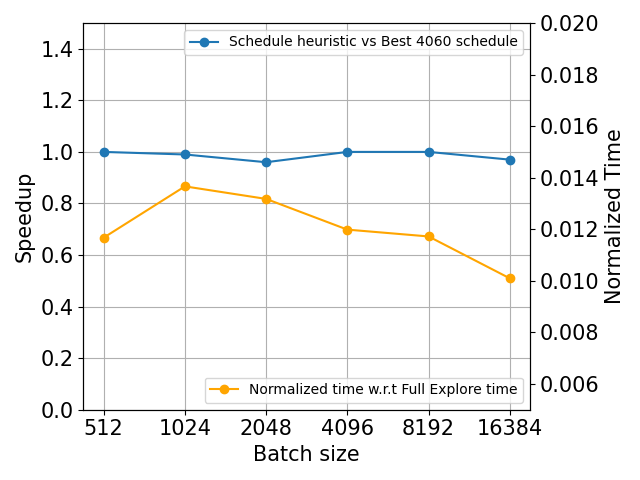
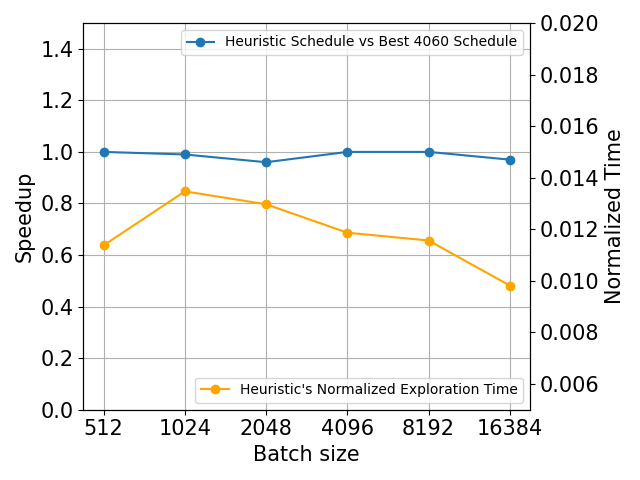
Update graph legends

diff --git a/results/python/analyze_gpu_speedups_results.py b/results/python/analyze_gpu_speedups_results.py
@@ -202,14 +202,14 @@ def plot_double_y_axis_line_graph(df_4060, full_exp_df, gpu_name):
         fe_time = filtered_df['FullExplore'].to_list()
         heur_time = filtered_df['AT'].to_list()
         normalized_times = [ht/ft for ht, ft in zip(heur_time, fe_time)]
-        norm_times.append(np.mean(normalized_times))
+        norm_times.append(gmean(normalized_times))
 
     # Plot the line graph
-    fig, ax1 = plt.subplots()
+    _, ax1 = plt.subplots()
     ax1.grid(True, which='both', axis='both')
     ax2 = ax1.twinx()
-    l1 = ax1.plot(batch_sizes, speedups, 'o-', label='Schedule heuristic vs Best 4060 schedule')
-    l2 = ax2.plot(batch_sizes, norm_times, 'o-', color='orange', label='Normalized time w.r.t Full Explore time')
+    ax1.plot(batch_sizes, speedups, 'o-', label='Heuristic Schedule vs Best 4060 Schedule')
+    ax2.plot(batch_sizes, norm_times, 'o-', color='orange', label='Heuristic\'s Normalized Exploration Time')
     
     ax1.set_xscale('log', base=2)
     ax1.set_xlabel('Batch size', fontsize=AXIS_FONT_SIZE)
@@ -286,9 +286,9 @@ class LineGraphPlotter:
         # plt.show()
         # plt.savefig(f'geomean_speedup_{gpu_name}_{time_measured}.{PLOT_FILE_EXTENSION}')
 
-    def save_plot(self):
+    def save_plot(self, leg_font_size=LEGEND_FONT_SIZE):
         self.ax.set_ylim(self.ylim[0], self.ylim[1])
-        plt.legend(fontsize=12)
+        plt.legend(fontsize=leg_font_size)
         plt.tight_layout()
         plt.savefig(f'geomean_speedup_{self.gpu_name}_{self.file_name_suffix}.{PLOT_FILE_EXTENSION}')
 
@@ -312,9 +312,9 @@ line_graph_plotter.plot_geomean_speedups_over_batch_size(results_t400_df, 'TB(AT
 line_graph_plotter.save_plot()
 
 line_graph_plotter = LineGraphPlotter('T400', '4060_vs_T400_vs_MI2160', lower_lim=1, upper_lim=1.6)
-line_graph_plotter.plot_geomean_speedups_over_batch_size(results_t400_df, 'TBKernel(AT)', ['TBKernel(4060)'], ['Scheduling heuristic(T400) vs Best 4060 schedule'])
-line_graph_plotter.plot_geomean_speedups_over_batch_size(results_amdmi2160_df, 'TBKernel(MI2160)', ['TBKernel(4060)'], ['Scheduling heuristic(MI2160) vs Best 4060 schedule'])
-line_graph_plotter.save_plot()
+line_graph_plotter.plot_geomean_speedups_over_batch_size(results_t400_df, 'TBKernel(AT)', ['TBKernel(4060)'], ['Scheduling heuristic(T400) vs 4060 heuristic schedule'])
+line_graph_plotter.plot_geomean_speedups_over_batch_size(results_amdmi2160_df, 'TBKernel(MI2160)', ['TBKernel(4060)'], ['Scheduling heuristic(MI2160) vs 4060 heuristic schedule'])
+line_graph_plotter.save_plot(leg_font_size=11.5)
 
 line_graph_plotter = LineGraphPlotter('4060', 'full_exp_vs_at', lower_lim=1, upper_lim=110)
 line_graph_plotter.plot_geomean_speedups_over_batch_size(fullexp_vs_at_df, 'AT', ['FullExplore'], ['Scheduling heuristic vs Full Exploration'])

diff --git a/docs/SOSP 2024/results.tex b/docs/SOSP 2024/results.tex
@@ -223,8 +223,7 @@ The maximum speedup is 2$\times$ for the \op{letters} benchmark at batch size 16
   \centering
   \includegraphics[width=0.75\linewidth]{figures/speedup_vs_norm_time_line_graph_4060.png}
   \caption{Speedup of schedules found by the heuristic vs best schedule found through exhaustive search on NVIDIA RTX 4060 and 
-  heuristic schedule exploration time normalized w.r.t full schedule exploration time \TODO{Change orange line label 
-  to ``Heuristic's Normalized Exploration Time''} \TODO{Change other label to say ``Heuristic Schedule vs Best 4060 Schedule''}}
+  heuristic schedule exploration time normalized w.r.t full schedule exploration time}
   \label{Fig:HeuristicVsFullExplore_Speedup}
 \end{figure}
 
@@ -232,7 +231,7 @@ The maximum speedup is 2$\times$ for the \op{letters} benchmark at batch size 16
   \centering
   \includegraphics[width=0.75\linewidth]{figures/geomean_speedup_T400_4060_vs_T400_vs_MI2160.png}
   \caption{Geomean speedup of schedule found by exploration heuristic on NVIDIA T400 and AMD MI2160 vs 
-  the heuristic schedule on NVIDIA RTX 4060 across batch sizes\TODO{Change the plot labels to say vs 4060 heuristic schedule}}
+  the heuristic schedule on NVIDIA RTX 4060 across batch sizes}
   \label{Fig:AutotuningSpeedupvs4060Sched}
 \end{figure}
 
